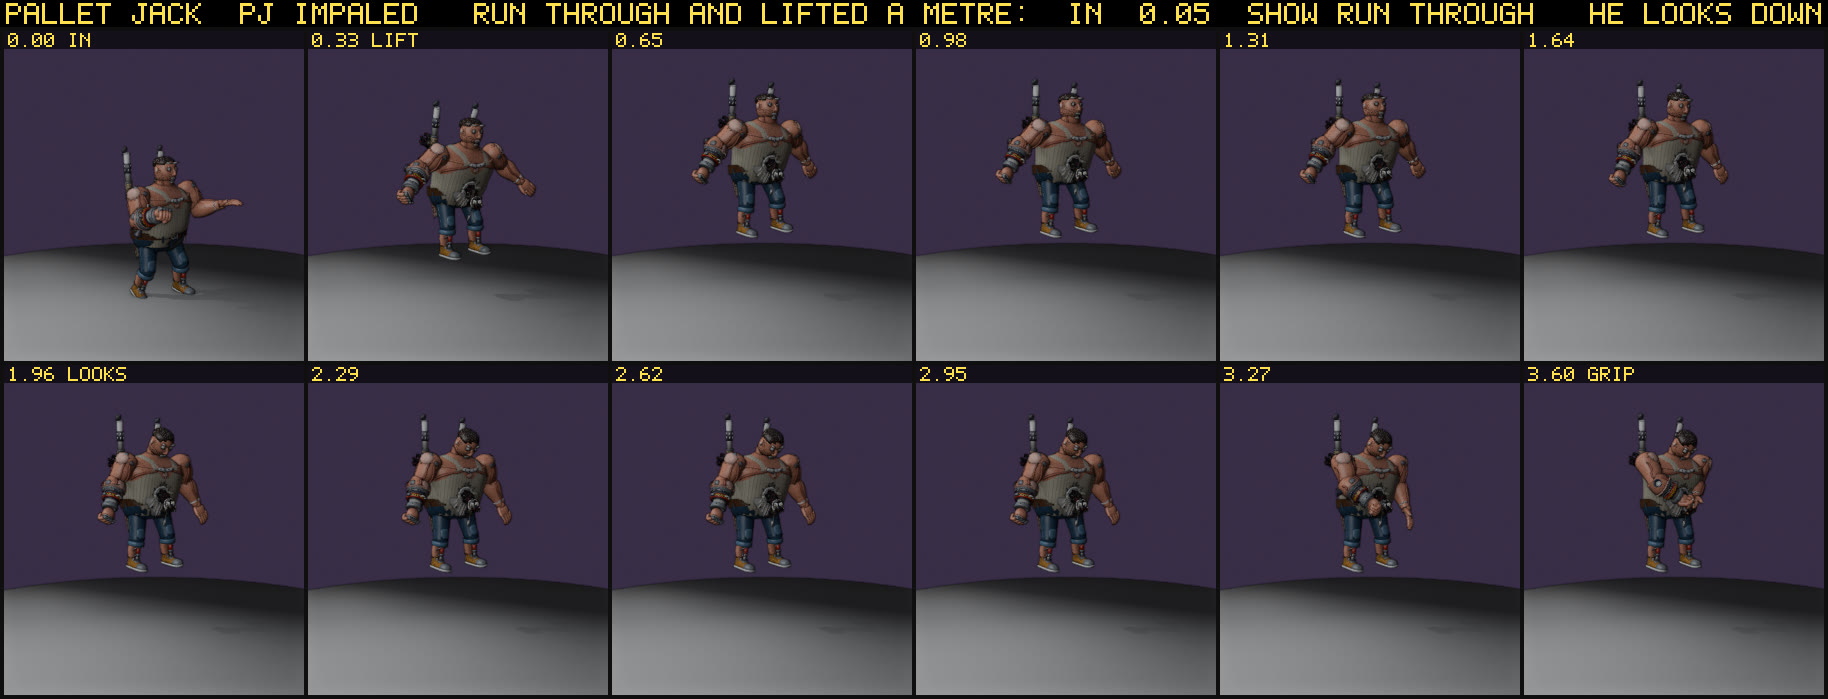
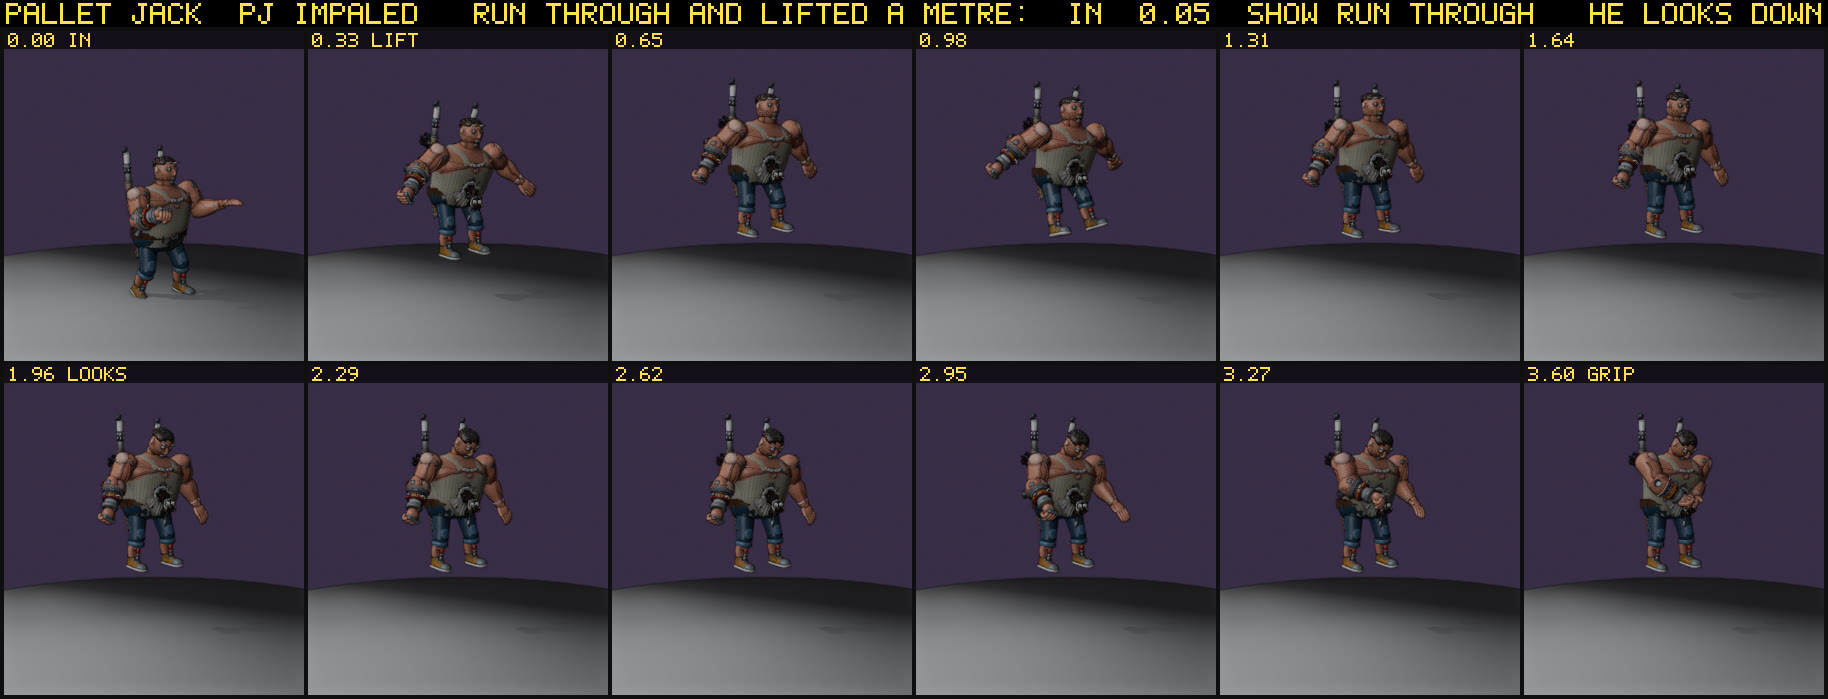
Pallet Jack: the story prop list keeps its own formatting (only the hand truck is added), the far model swaps in at 28 m as the notes say
The model doc lists his five faces, the 12-frame Blender clip sheets and exactly which shared files were touched.

Claude-Session: https://claude.ai/code/session_011tKQCrJdaf4PGM8wkY8xV7

diff --git a/public/js/story/palletjack.js b/public/js/story/palletjack.js
@@ -299,7 +299,7 @@ function makeRig(a) {
       c.spine.getWorldQuaternion(tq).invert(); c.root.getWorldQuaternion(tq2); g.quaternion.copy(tq).multiply(tq2);
     }
     // LOD
-    if (cam && L.blender) { const far = cam.position.distanceTo(c.root.position) > 28 * (S / 1.18); if (far !== r.far) { r.far = far; r.vis(); } }
+    if (cam && L.blender) { const far = cam.position.distanceTo(c.root.position) > 28; if (far !== r.far) { r.far = far; r.vis(); } }
     else if (r.far == null) { r.far = false; r.vis(); }
     if (!PJ.fx || r.far || !G.scene || dt <= 0) return;
     // steam: the boiler ticks over (a wisp, a cap lifts); it works harder with the rig up; run through, it vents red

diff --git a/tools/blender/cast/pj_clips.py b/tools/blender/cast/pj_clips.py
@@ -7,7 +7,7 @@
 #   <joint>.x/.y/.z   rotation in radians.  arm / fore .x + = raise forward / bend the elbow; spine.x - = bend forward;
 #                     head.x + = look up; arm.z + (right) / armL.z - (left) = out to the side; leg.x + = thigh forward;
 #                     knee.x - = shin back; body.x + = the whole of him tips back about his feet
-#   body.px/.py/.pz   the hips' offset in his own units (the root is x1.18, so 0.1 is 11.8 cm). +pz = back
+#   body.px/.py/.pz   the hips' offset in his own units (the root is x1.24, so 0.1 is 12.4 cm). +pz = back
 #   handR.py          the fist riding out on its ram (- = out)
 #   x.rig x.cock x.vent x.flap x.needle   the machine: 0..1 (shins locked + stacks up, collar cocked, venting, caps, gauge)
 # Arms, forearms, hands, neck and head.z are ABSOLUTE (the clip owns them: a hand that has to be somewhere stays there

diff --git a/docs/story/train/PALLET_JACK_MODEL.md b/docs/story/train/PALLET_JACK_MODEL.md
@@ -14,7 +14,7 @@ Sheets (all looked at while building; the list of what is still weak is at the b
 | the three damage states, the far LOD | `pj_game_damage.jpg` | `c_pallet_jack_damage.jpg` |
 | the rig parts close up, at rest and with the rig up | `pj_game_parts.jpg` | `c_pallet_jack_parts.jpg` |
 | one key pose a clip | `pj_game_poses.jpg` | `c_pallet_jack_poses.jpg` |
-| a contact sheet per clip (12 frames, marks called out) | `pj_clip_<name>.jpg` | `tools/blender/sheets/c_pallet_jack_clip_<name>.jpg` (8 frames) |
+| a contact sheet per clip (12 frames, marks called out) | `pj_clip_<name>.jpg` | `tools/blender/sheets/c_pallet_jack_clip_<name>.jpg` (12 frames, Workbench) |
 | the hand truck | in the turnaround and `pj_clip_idle.jpg` | `tools/blender/sheets/s_handtruck.jpg` |
 
 In every sheet "his right" is the launcher arm (+x) and "his left" is the open hand and `THIS WAY UP`.
@@ -26,7 +26,7 @@ In every sheet "his right" is the launcher arm (+x) and "his left" is the open h
 | `public/models/cast/c_pallet_jack.glb` | the model: `part_<joint>[__<tag>]` meshes at the rest pose, like every cast model |
 | `public/models/cast/c_pallet_jack.parts.json` | every named part (joint, box), the moving pieces (pivot, axis), markers, states, clip marks and samples, prop spots |
 | `public/models/story/s_handtruck.glb` | his hand truck (a story prop, in `story/index.json`): nodes `frame`, `wheelL`, `wheelR` |
-| `public/js/story/jacklook.js` | his skeleton, the code puppet (the fallback), the markers, his faces (`jack`, `jack_hurt`, `jack_gone`) |
+| `public/js/story/jacklook.js` | his skeleton, the code puppet (the fallback), the markers, his faces (`jack`, `jack_set`, `jack_mad`, `jack_hurt`, `jack_gone`) |
 | `public/js/story/palletjack.js` | `PJ`: clips, marks, damage states, the machine, vest, LOD, steam |
 | `public/js/story/pj_clipdata.js` | the clips as key poses. **Generated** by `tools/blender/cast/pj_clips.py` |
 | `tools/blender/cast/make_cast_pallet_jack.py` | the build. `jackkit.py` (kit), `jackbody.py` (the man), `jackrig.py` (the machine), `jackdmg.py` (damage), `jacktruck.py`, `jackposes.py` (pose sheets) |
@@ -34,9 +34,9 @@ In every sheet "his right" is the launcher arm (+x) and "his left" is the open h
 | `tools/blender/cast/pjshots.cjs`, `pjparts.cjs`, `pjcheck.cjs` | the in-game sheets; the game half of the parts file; the actor-path check |
 
 Touched in shared files: **two lines in `looks.js`** (an import and `pallet_jack: () => palletJackLook({...})` in
-`LOOKS`), one entry in `public/models/story/index.json` (`s_handtruck`), and his entry in
-`tools/blender/cast/joints.json` (written by `joints.cjs`). Nothing in `actors.js`, `boot.js`, the content files or
-the server.
+`LOOKS`), one entry in `public/models/story/index.json` (`"s_handtruck"`, nothing else on that line moved), his entry
+in `tools/blender/cast/joints.json` (written by `joints.cjs`), and one row in `tools/blender/README.md`. Nothing in
+`actors.js`, `boot.js`, the content files, the train or boss files, or the server.
 
 ## Who you are looking at
 
@@ -240,10 +240,14 @@ copy it from the parts file's `markers` into `MK` in `jacklook.js` (the code fal
   marrow cavity, the truck's toe lip and axle brackets (each moved, resized or re-shaped, none hidden); floating keys
   (hung on the belt); zero-area UVs; crumbs a decimate leaves in the LOD (dropped), a scar ring that decimated into a
   sliver (kept out of the LOD).
-- **In the game** (`pjcheck.cjs`): `spawnActor('pallet_jack')` dresses the glb on the code skeleton with every tag and
-  marker from the parts file present; each of the 18 clips is played through `PJ.play` with `updateActors` and
-  `pjFrame` stepping it: joints move, nothing goes NaN, every mark fires; each damage state shows and hides the
-  pieces the parts file says; past 28 m the far LOD swaps in and comes back.
+- **In the game** (`pjcheck.cjs`, last run: `PJ_CHECK ok`): `spawnActor('pallet_jack')` dresses the glb on the code
+  skeleton with every tag and marker from the parts file present; each of the 18 clips is played through `PJ.play`
+  with `updateActors` and `pjFrame` stepping it: joints move, nothing goes NaN, every mark fires (all 40); each
+  damage state shows and hides the pieces the parts file says (run_through 3 on; armour_broken 8 on, 7 off;
+  marrow_taken 7 on, 9 off); past 28 m the far LOD swaps in (27,626 triangles drawn near, 1,635 far) and comes back.
+  The near figure is the model's 23,802 plus about 3,800 the game adds on every cast member: its code face rig.
+- **Markers** (`pjparts.cjs`): the fifteen spots on his spine land within 1 mm of the model's in the game; his palm
+  sits at 1.195 m on the truck's grip (the grip is at 1.17 m plus his palm).
 - **Looked at**: every sheet in the table at the top, from both renderers, over three passes on the model and two on
   the animation.
 
